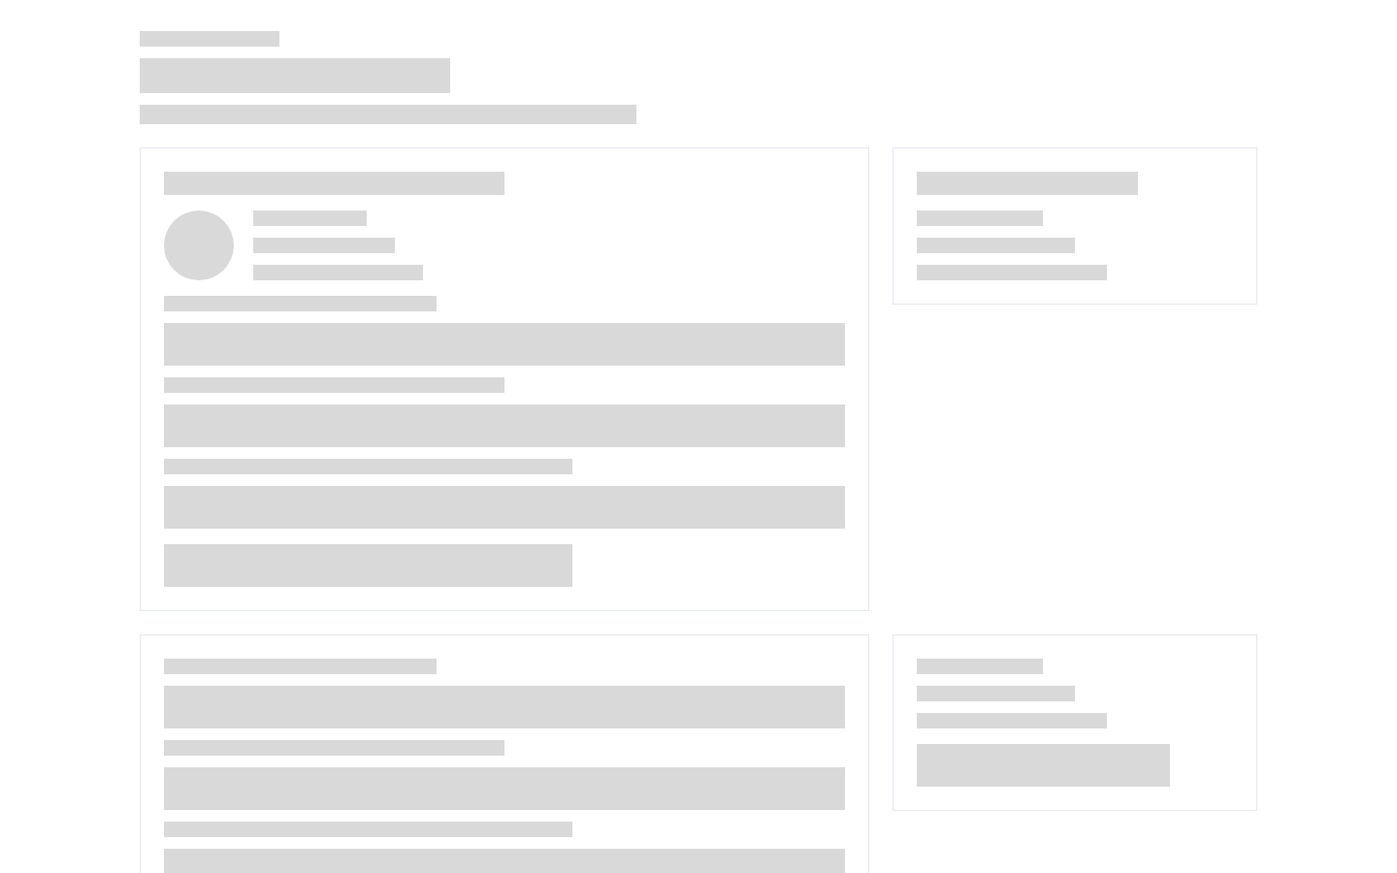
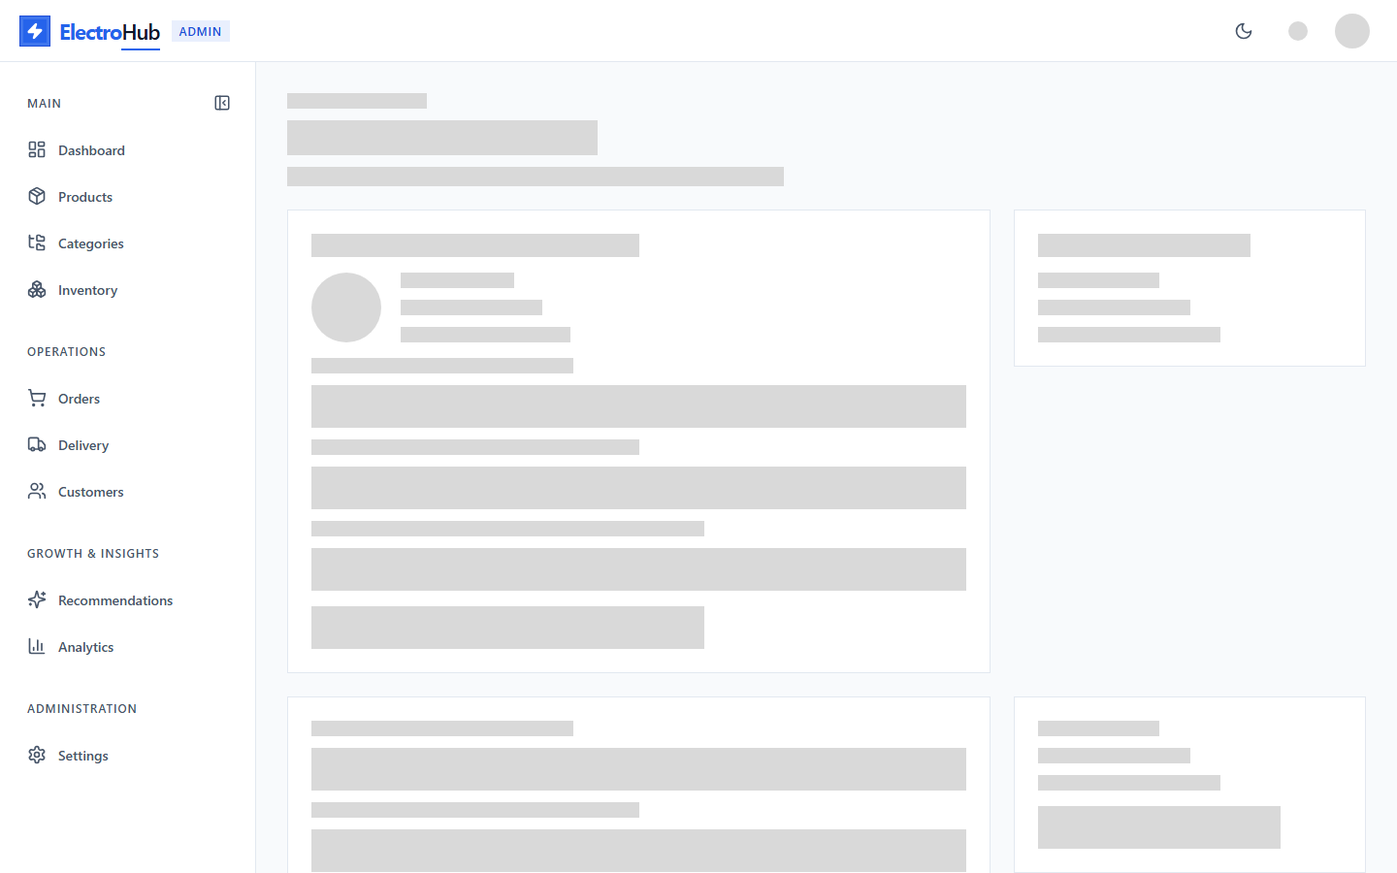
fix(admin): restore administrator account pages inside the console frame
Session restore on /admin/profile, /security and /sessions now paints the page skeleton inside the
real console frame (header, sidebar, mobile drawer) instead of a bare page.

- AdminShellFrame holds the static frame; AdminLayout renders through it (no behaviour change).
- AdminSessionRestoreShell reuses the frame with neutral alerts/account placeholders: no identity,
  photo, alerts request or live-inventory socket before the session is verified.
- Tests: ProtectedRoute unit test for the frame and absent admin data; Playwright (Chromium, WebKit)
  asserts header/sidebar or menu button, no /api/admin request during restore, and a stable header.

diff --git a/apps/frontend/src/layouts/AdminLayout.tsx b/apps/frontend/src/layouts/AdminLayout.tsx
@@ -1,61 +1,22 @@
-import { useEffect, useLayoutEffect, useState } from 'react';
-import { Link, NavLink, Outlet, useLocation, useMatch, useNavigationType } from 'react-router-dom';
+import { useLayoutEffect, useState } from 'react';
+import { Link, Outlet, useLocation, useNavigationType } from 'react-router-dom';
 import clsx from 'clsx';
-import { AlertTriangle, Bell, ExternalLink, LogOut, Menu, PackageX, PanelLeftClose, PanelLeftOpen, Truck, ClipboardList, UserRound, ShieldCheck, MonitorSmartphone } from 'lucide-react';
+import { AlertTriangle, Bell, ExternalLink, LogOut, PackageX, Truck, ClipboardList, UserRound, ShieldCheck, MonitorSmartphone } from 'lucide-react';
 import { useAdminAuth } from '@/features/auth/context/AuthContext';
-import { Drawer, DrawerContent, DrawerDescription, DrawerTitle } from '@/components/ui/Drawer';
 import { DropdownMenu, DropdownMenuContent, DropdownMenuItem, DropdownMenuLabel, DropdownMenuSeparator, DropdownMenuTrigger } from '@/components/ui/DropdownMenu';
 import { Tooltip } from '@/components/ui/Tooltip';
 import { Button } from '@/components/ui/Button';
-import { BrandLogo } from '@/components/ui/BrandLogo';
 import { ThemeToggle } from '@/features/theme';
 import { Avatar } from '@/components/ui/Avatar';
 import { useProfilePhoto } from '@/features/profilePhoto/queries';
-import { ADMIN_NAVIGATION, SIDEBAR_PREFERENCE_KEY, type AdminNavItem } from '@/features/admin/shell/navigation';
 import { useAcknowledgeAdminAlerts, useAdminAlerts } from '@/features/admin/dashboard/api';
 import { useAdminInventoryLiveUpdates } from '@/features/admin/dashboard/useAdminInventoryLiveUpdates';
 import { AdminToastProvider, ConfirmDialog } from '@/features/admin/shared/AdminUi';
 import { formatCount, initials } from '@/features/admin/shared/format';
 import styles from './AdminLayout.module.scss';
+import { AdminShellFrame } from './AdminShellFrame';
 import { usePageTitle } from './usePageTitle';
 import { BRAND_TITLE } from '@/lib/pageTitle';
-
-function readCollapsed() {
-  try { return window.localStorage.getItem(SIDEBAR_PREFERENCE_KEY) === '1'; } catch { return false; }
-}
-
-// The class is resolved here, not through NavLink's className callback: the rail wraps links in a Radix Tooltip trigger, whose Slot
-// merges class names as strings and would turn a callback into an unusable string (the unstyled, cramped rail seen before).
-function NavItem({ item, collapsed, onNavigate }: { item: AdminNavItem; collapsed?: boolean; onNavigate?: () => void }) {
-  const active = Boolean(useMatch({ path: item.to, end: Boolean(item.end) }));
-  const Icon = item.icon;
-  const link = <NavLink to={item.to} end={item.end} onClick={onNavigate} aria-label={collapsed ? item.label : undefined}
-    className={clsx(styles.navLink, active && styles.navLinkActive)}>
-    <Icon className={styles.navIcon} aria-hidden="true" />
-    {!collapsed && <span>{item.label}</span>}
-  </NavLink>;
-  return <li>{collapsed ? <Tooltip content={item.label} side="right" sideOffset={10}>{link}</Tooltip> : link}</li>;
-}
-
-/** `onToggle` (desktop sidebar only) puts the collapse control on the first section's heading row. */
-function Navigation({ collapsed, onNavigate, onToggle }: { collapsed?: boolean; onNavigate?: () => void; onToggle?: () => void }) {
-  return <nav className={styles.nav} aria-label="Admin navigation">
-    {ADMIN_NAVIGATION.map((section, index) => <div key={section.label} className={styles.navSection}>
-      <div className={clsx(styles.navHeadingRow, collapsed && styles.navHeadingRowCollapsed)}>
-        <p className={clsx(styles.navHeading, collapsed && styles.visuallyHidden)}>{section.label}</p>
-        {index === 0 && onToggle && <Tooltip content={collapsed ? 'Expand sidebar' : 'Collapse sidebar'} side="right" sideOffset={10}>
-          <button type="button" className={styles.collapseButton} onClick={onToggle}
-            aria-label={collapsed ? 'Expand sidebar' : 'Collapse sidebar'} aria-pressed={collapsed}>
-            {collapsed ? <PanelLeftOpen aria-hidden="true" /> : <PanelLeftClose aria-hidden="true" />}
-          </button>
-        </Tooltip>}
-      </div>
-      <ul className={styles.navList}>
-        {section.items.map(item => <NavItem key={item.to} item={item} collapsed={collapsed} onNavigate={onNavigate} />)}
-      </ul>
-    </div>)}
-  </nav>;
-}
 
 function AlertsMenu() {
   const alerts = useAdminAlerts();
@@ -170,15 +131,8 @@ function ProfileMenu() {
 export function AdminLayout() {
   usePageTitle('admin-main', BRAND_TITLE, 'Admin');
   const location = useLocation();
-  const [collapsed, setCollapsed] = useState(readCollapsed);
-  const [drawerOpen, setDrawerOpen] = useState(false);
   useAdminInventoryLiveUpdates();
 
-  useEffect(() => {
-    try { window.localStorage.setItem(SIDEBAR_PREFERENCE_KEY, collapsed ? '1' : '0'); } catch { /* preference only */ }
-  }, [collapsed]);
-  // A navigation (including back/forward) always closes the mobile drawer.
-  useEffect(() => { setDrawerOpen(false); }, [location.pathname]);
   // Opening another admin page (a link, a drill-down, the sidebar) starts at its top. Back/forward keep the browser's position, and
   // query-only changes on the same page (filters, pager) are left to the page itself.
   const navigationType = useNavigationType();
@@ -188,43 +142,12 @@ export function AdminLayout() {
   }, [location.pathname]);
 
   return <AdminToastProvider>
-    <div className={clsx(styles.shell, collapsed && styles.shellCollapsed)}>
-      <a href="#admin-main" tabIndex={0} className={styles.skipLink}>Skip to content</a>
-      <header className={styles.header} data-admin-header>
-        <div className={styles.headerStart}>
-          <Tooltip content="Open navigation menu">
-          <button type="button" className={clsx(styles.iconButton, styles.menuButton)} onClick={() => setDrawerOpen(true)}
-            aria-label="Open navigation" aria-expanded={drawerOpen} aria-controls="admin-drawer">
-            <Menu aria-hidden="true" />
-          </button>
-          </Tooltip>
-          <Link to="/admin" className={styles.brand} aria-label="ElectroHub admin — Dashboard">
-            <BrandLogo />
-            <span className={styles.adminPill}>Admin</span>
-          </Link>
-        </div>
-        <div className={styles.headerEnd}>
-          <ThemeToggle className={styles.iconButton} />
-          <AlertsMenu />
-          <ProfileMenu />
-        </div>
-      </header>
-
-      <aside className={styles.sidebar} aria-label="Sidebar">
-        <Navigation collapsed={collapsed} onToggle={() => setCollapsed(value => !value)} />
-      </aside>
-
-      <Drawer open={drawerOpen} onOpenChange={setDrawerOpen}>
-        <DrawerContent id="admin-drawer" className={styles.drawer}>
-          <DrawerTitle className={styles.drawerTitle}>ElectroHub Admin</DrawerTitle>
-          <DrawerDescription className={styles.visuallyHidden}>Admin console navigation</DrawerDescription>
-          <Navigation onNavigate={() => setDrawerOpen(false)} />
-        </DrawerContent>
-      </Drawer>
-
-      <main id="admin-main" className={styles.main} tabIndex={-1}>
-        <Outlet />
-      </main>
-    </div>
+    <AdminShellFrame headerEnd={<>
+      <ThemeToggle className={styles.iconButton} />
+      <AlertsMenu />
+      <ProfileMenu />
+    </>}>
+      <Outlet />
+    </AdminShellFrame>
   </AdminToastProvider>;
 }

diff --git a/apps/frontend/src/layouts/AdminShellFrame.tsx b/apps/frontend/src/layouts/AdminShellFrame.tsx
@@ -1,0 +1,111 @@
+import { useEffect, useState, type ReactNode } from 'react';
+import { Link, NavLink, useLocation, useMatch } from 'react-router-dom';
+import clsx from 'clsx';
+import { Menu, PanelLeftClose, PanelLeftOpen } from 'lucide-react';
+import { Drawer, DrawerContent, DrawerDescription, DrawerTitle } from '@/components/ui/Drawer';
+import { Tooltip } from '@/components/ui/Tooltip';
+import { BrandLogo } from '@/components/ui/BrandLogo';
+import { Skeleton } from '@/components/ui/Skeleton';
+import { ThemeToggle } from '@/features/theme';
+import { ADMIN_NAVIGATION, SIDEBAR_PREFERENCE_KEY, type AdminNavItem } from '@/features/admin/shell/navigation';
+import styles from './AdminLayout.module.scss';
+
+function readCollapsed() {
+  try { return window.localStorage.getItem(SIDEBAR_PREFERENCE_KEY) === '1'; } catch { return false; }
+}
+
+// The class is resolved here, not through NavLink's className callback: the rail wraps links in a Radix Tooltip trigger, whose Slot
+// merges class names as strings and would turn a callback into an unusable string (the unstyled, cramped rail seen before).
+function NavItem({ item, collapsed, onNavigate }: { item: AdminNavItem; collapsed?: boolean; onNavigate?: () => void }) {
+  const active = Boolean(useMatch({ path: item.to, end: Boolean(item.end) }));
+  const Icon = item.icon;
+  const link = <NavLink to={item.to} end={item.end} onClick={onNavigate} aria-label={collapsed ? item.label : undefined}
+    className={clsx(styles.navLink, active && styles.navLinkActive)}>
+    <Icon className={styles.navIcon} aria-hidden="true" />
+    {!collapsed && <span>{item.label}</span>}
+  </NavLink>;
+  return <li>{collapsed ? <Tooltip content={item.label} side="right" sideOffset={10}>{link}</Tooltip> : link}</li>;
+}
+
+/** `onToggle` (desktop sidebar only) puts the collapse control on the first section's heading row. */
+function Navigation({ collapsed, onNavigate, onToggle }: { collapsed?: boolean; onNavigate?: () => void; onToggle?: () => void }) {
+  return <nav className={styles.nav} aria-label="Admin navigation">
+    {ADMIN_NAVIGATION.map((section, index) => <div key={section.label} className={styles.navSection}>
+      <div className={clsx(styles.navHeadingRow, collapsed && styles.navHeadingRowCollapsed)}>
+        <p className={clsx(styles.navHeading, collapsed && styles.visuallyHidden)}>{section.label}</p>
+        {index === 0 && onToggle && <Tooltip content={collapsed ? 'Expand sidebar' : 'Collapse sidebar'} side="right" sideOffset={10}>
+          <button type="button" className={styles.collapseButton} onClick={onToggle}
+            aria-label={collapsed ? 'Expand sidebar' : 'Collapse sidebar'} aria-pressed={collapsed}>
+            {collapsed ? <PanelLeftOpen aria-hidden="true" /> : <PanelLeftClose aria-hidden="true" />}
+          </button>
+        </Tooltip>}
+      </div>
+      <ul className={styles.navList}>
+        {section.items.map(item => <NavItem key={item.to} item={item} collapsed={collapsed} onNavigate={onNavigate} />)}
+      </ul>
+    </div>)}
+  </nav>;
+}
+
+/**
+ * The admin console frame: header, sidebar, mobile drawer and main region. It holds no administrator data (no identity, alerts, live
+ * updates or photo), so the same frame can be painted while the administrator session is still being restored.
+ */
+export function AdminShellFrame({ headerEnd, children }: { headerEnd: ReactNode; children: ReactNode }) {
+  const location = useLocation();
+  const [collapsed, setCollapsed] = useState(readCollapsed);
+  const [drawerOpen, setDrawerOpen] = useState(false);
+
+  useEffect(() => {
+    try { window.localStorage.setItem(SIDEBAR_PREFERENCE_KEY, collapsed ? '1' : '0'); } catch { /* preference only */ }
+  }, [collapsed]);
+  // A navigation (including back/forward) always closes the mobile drawer.
+  useEffect(() => { setDrawerOpen(false); }, [location.pathname]);
+
+  return <div className={clsx(styles.shell, collapsed && styles.shellCollapsed)}>
+    <a href="#admin-main" tabIndex={0} className={styles.skipLink}>Skip to content</a>
+    <header className={styles.header} data-admin-header>
+      <div className={styles.headerStart}>
+        <Tooltip content="Open navigation menu">
+        <button type="button" className={clsx(styles.iconButton, styles.menuButton)} onClick={() => setDrawerOpen(true)}
+          aria-label="Open navigation" aria-expanded={drawerOpen} aria-controls="admin-drawer">
+          <Menu aria-hidden="true" />
+        </button>
+        </Tooltip>
+        <Link to="/admin" className={styles.brand} aria-label="ElectroHub admin — Dashboard">
+          <BrandLogo />
+          <span className={styles.adminPill}>Admin</span>
+        </Link>
+      </div>
+      <div className={styles.headerEnd}>{headerEnd}</div>
+    </header>
+
+    <aside className={styles.sidebar} aria-label="Sidebar">
+      <Navigation collapsed={collapsed} onToggle={() => setCollapsed(value => !value)} />
+    </aside>
+
+    <Drawer open={drawerOpen} onOpenChange={setDrawerOpen}>
+      <DrawerContent id="admin-drawer" className={styles.drawer}>
+        <DrawerTitle className={styles.drawerTitle}>ElectroHub Admin</DrawerTitle>
+        <DrawerDescription className={styles.visuallyHidden}>Admin console navigation</DrawerDescription>
+        <Navigation onNavigate={() => setDrawerOpen(false)} />
+      </DrawerContent>
+    </Drawer>
+
+    <main id="admin-main" className={styles.main} tabIndex={-1}>
+      {children}
+    </main>
+  </div>;
+}
+
+/**
+ * Session restore inside the real console frame. The alerts and account controls are neutral placeholders: nothing that needs the
+ * administrator session (identity, photo, alerts, live inventory updates) is requested or painted until the session is verified.
+ */
+export function AdminSessionRestoreShell({ children }: { children: ReactNode }) {
+  return <AdminShellFrame headerEnd={<>
+    <ThemeToggle className={styles.iconButton} />
+    <span className={styles.iconButton} data-admin-header-placeholder="alerts" aria-hidden="true"><Skeleton variant="circular" width={20} height={20} /></span>
+    <span className={styles.profileButton} data-admin-header-placeholder="account" aria-hidden="true"><Skeleton variant="circular" className={styles.avatar} /></span>
+  </>}>{children}</AdminShellFrame>;
+}

diff --git a/apps/frontend/tests/visual/task06-2-description-skeletons.spec.ts b/apps/frontend/tests/visual/task06-2-description-skeletons.spec.ts
@@ -2,7 +2,7 @@ import { mkdirSync, copyFileSync } from 'node:fs';
 import path from 'node:path';
 import { fileURLToPath } from 'node:url';
 import { expect, test, type Page, type Route, type TestInfo } from '@playwright/test';
-import { CUSTOMER, installDarkModeApi, summaries } from './darkMode.fixtures';
+import { ADMIN, CUSTOMER, installDarkModeApi, summaries } from './darkMode.fixtures';
 
 /**
  * PR #51 / Task 06.2 WP C + WP D — Product Description layout and account loading skeletons.
@@ -145,16 +145,32 @@ test.describe('WP D — account loading skeletons', () => {
       });
     }
     for (const target of ADMIN_PAGES) {
-      test(`${target.name} at ${width}px: a layout skeleton while the administrator session restores`, async ({ page }, info) => {
+      test(`${target.name} at ${width}px: a layout skeleton inside the console frame while the administrator session restores`, async ({ page }, info) => {
         await page.setViewportSize({ width, height: 900 });
         await installDarkModeApi(page, { admin: true });
+        const adminRequests: string[] = [];
+        page.on('request', request => { const { pathname } = new URL(request.url()); if (pathname.startsWith('/api/admin/')) adminRequests.push(pathname); });
         const restore = await hold(page, '/api/auth/admin/refresh');
         await page.goto(target.url);
-        await expect(page.locator(`[data-account-skeleton^="admin-"]`).first()).toBeVisible();
+        const skeleton = page.locator('main#admin-main [data-account-skeleton^="admin-"]');
+        await expect(skeleton).toBeVisible();
+        // The real console frame is already there: header and brand, and the sidebar (desktop) or the navigation button (mobile).
+        await expect(page.locator('[data-admin-header]')).toBeVisible();
+        await expect(page.getByRole('link', { name: 'ElectroHub admin — Dashboard' })).toBeVisible();
+        if (width >= 1024) await expect(page.getByRole('complementary', { name: 'Sidebar' }).getByRole('navigation', { name: 'Admin navigation' })).toBeVisible();
+        else await expect(page.getByRole('button', { name: 'Open navigation' })).toBeVisible();
+        // Nothing that needs the administrator session is requested or painted before it is verified.
+        await expect(page.getByText(ADMIN.email)).toHaveCount(0);
+        await expect(page.getByRole('button', { name: /^Account menu/ })).toHaveCount(0);
+        expect(adminRequests).toEqual([]);
         expect(await overflow(page)).toBeLessThanOrEqual(0);
+        const headerBefore = await page.locator('[data-admin-header]').boundingBox();
         await shot(page, info, `skeleton-${target.name}-${width}`);
         restore.release();
         await expect(page.locator('[data-account-skeleton]')).toHaveCount(0, { timeout: 15_000 });
+        // The frame does not jump when the session resolves.
+        await expect(page.getByRole('button', { name: /^Account menu/ })).toBeVisible();
+        expect(await page.locator('[data-admin-header]').boundingBox()).toEqual(headerBefore);
       });
     }
   }

diff --git a/apps/frontend/src/components/layout/ProtectedRoute/ProtectedRoute.test.tsx b/apps/frontend/src/components/layout/ProtectedRoute/ProtectedRoute.test.tsx
@@ -1,6 +1,6 @@
 /* eslint-disable @typescript-eslint/no-explicit-any */
 import { describe, it, expect, vi, beforeEach } from 'vitest';
-import { render, screen, fireEvent } from '@testing-library/react';
+import { render, screen, fireEvent, within } from '@testing-library/react';
 import { MemoryRouter, Routes, Route, useLocation } from 'react-router-dom';
 import { ProtectedRoute } from './ProtectedRoute';
 import { useAuth } from '@/features/auth/context/AuthContext';
@@ -131,6 +131,24 @@ describe('ProtectedRoute', () => {
       <Route path={path} element={<div>Private content</div>} /></Route></Routes></MemoryRouter>);
     expect(screen.getByRole('status', { name: label })).toHaveAttribute('aria-busy', 'true');
     expect(screen.queryByText('Cached private name')).not.toBeInTheDocument();
+    expect(screen.queryByText('Private content')).not.toBeInTheDocument();
+  });
+
+  it('restores an administrator account page inside the real console frame without administrator data', () => {
+    vi.mocked(useAuth).mockReturnValue({ isInitializing: true, isAuthenticated: true,
+      user: { firstName: 'Cached private name', email: 'cached.admin@example.test', role: 'ADMIN' }, isSessionVerified: false } as ReturnType<typeof useAuth>);
+    render(<MemoryRouter initialEntries={['/admin/profile/security']}><Routes><Route element={<ProtectedRoute requiredRole="ADMIN" />}>
+      <Route path="/admin/profile/security" element={<div>Private content</div>} /></Route></Routes></MemoryRouter>);
+    const main = screen.getByRole('main');
+    expect(within(main).getByRole('status', { name: 'Loading security settings' })).toHaveAttribute('aria-busy', 'true');
+    expect(screen.getByRole('navigation', { name: 'Admin navigation' })).toBeInTheDocument();
+    expect(screen.getByRole('link', { name: 'ElectroHub admin — Dashboard' })).toHaveAttribute('href', '/admin');
+    expect(screen.getByRole('button', { name: 'Open navigation' })).toBeInTheDocument();
+    // Alerts and the account menu are neutral placeholders until the session is verified: no identity, no alert counts.
+    expect(screen.queryByRole('button', { name: /^Account menu/ })).not.toBeInTheDocument();
+    expect(screen.queryByRole('button', { name: /^Alerts/ })).not.toBeInTheDocument();
+    expect(screen.queryByText('Cached private name')).not.toBeInTheDocument();
+    expect(screen.queryByText('cached.admin@example.test')).not.toBeInTheDocument();
     expect(screen.queryByText('Private content')).not.toBeInTheDocument();
   });
 

diff --git a/apps/frontend/src/components/layout/ProtectedRoute/ProtectedRoute.tsx b/apps/frontend/src/components/layout/ProtectedRoute/ProtectedRoute.tsx
@@ -5,6 +5,7 @@ import { ErrorState } from '@/components/ui/ErrorState';
 import { Button } from '@/components/ui/Button';
 import skeletonStyles from '@/features/account/AccountSkeleton.module.scss';
 import { ElectroHubLoader } from '@/components/ui/ElectroHubLoader/ElectroHubLoader';
+import { AdminSessionRestoreShell } from '@/layouts/AdminShellFrame';
 
 interface ProtectedRouteProps {
   requiredRole?: string;
@@ -38,7 +39,8 @@ function RouteGate({ session, requiredRole, redirectTo = '/', requireVerifiedSes
     }
     if (location.pathname.startsWith('/admin/profile')) {
       const variant = location.pathname.endsWith('/security') ? 'security' : location.pathname.endsWith('/sessions') ? 'sessions' : 'profile';
-      return <div className={skeletonStyles.gate}><AdminAccountSkeleton variant={variant} /></div>;
+      // The real console frame (header, sidebar, drawer) with the page skeleton where the page will render; no administrator data yet.
+      return <AdminSessionRestoreShell><AdminAccountSkeleton variant={variant} /></AdminSessionRestoreShell>;
     }
     return <ElectroHubLoader page />;
   }

diff --git a/docs/tasks/Phase-06/TASK_06.2_CHECKOUT_REMOVAL_DESCRIPTION_SKELETONS_EVIDENCE.md b/docs/tasks/Phase-06/TASK_06.2_CHECKOUT_REMOVAL_DESCRIPTION_SKELETONS_EVIDENCE.md
@@ -111,7 +111,7 @@ The short / XSS case and dark mode are asserted in the same spec. Their screensh
 | `/orders/:ref` | `OrderDetailsSkeleton` (extracted, reused as the route fallback) |
 | `/orders/:ref/tracking` | `TrackingSkeleton` (extracted, reused as the route fallback) |
 | `/wishlist` | Existing wishlist skeleton |
-| `/admin/profile`, `/admin/profile/security`, `/admin/profile/sessions` | `AdminAccountSkeleton variant=profile|security|sessions` |
+| `/admin/profile`, `/admin/profile/security`, `/admin/profile/sessions` | `AdminAccountSkeleton variant=profile|security|sessions`, inside the real console frame (`AdminSessionRestoreShell`) |
 | Notification preferences (account) | Inline skeleton with a screen-reader "Checking notification preferences…" |
 
 ## 12. Skeleton component architecture
@@ -119,6 +119,10 @@ The short / XSS case and dark mode are asserted in the same spec. Their screensh
 - `features/account/AccountSkeleton.tsx` composes the shared `Skeleton` primitive. It adds no new primitive and no new shimmer.
 - Each skeleton root has `role="status"`, `aria-busy="true"`, an accessible label and `data-account-skeleton`.
 - `ProtectedRoute` shows the route-specific fallback (passed through `route()` / `adminRoute()`) while the session restores.
+- Administrator account pages restore inside the console frame. `layouts/AdminShellFrame.tsx` holds the header, sidebar, mobile drawer
+  and main region, and `AdminLayout` renders through it. During restore, `AdminSessionRestoreShell` uses the same frame with neutral
+  placeholders for the alerts and account controls. No identity, photo, alerts request or live-inventory socket starts before the session is
+  verified, and the header does not move when the real controls replace the placeholders (Playwright compares its bounding box).
 - If the session check fails, `ProtectedRoute` shows `ErrorState` "We could not verify your session." with **Retry**, never an endless skeleton.
 - The shared `Skeleton` already disables shimmer under `prefers-reduced-motion`.
 
@@ -149,6 +153,7 @@ The short / XSS case and dark mode are asserted in the same spec. Their screensh
   - `features/account/{AccountSkeleton,RecentOrders}.*`
   - `OrderDetailsSkeleton.tsx`, `TrackingSkeleton.tsx`
   - `ProtectedRoute.{tsx,test.tsx}`, `routes/index.tsx`
+  - `layouts/AdminShellFrame.tsx` (new), `layouts/AdminLayout.tsx` (renders through the frame)
   - `AccountPage`, `ProfilePage`, `AdminProfilePage`, `AdminSecurityPage` and their tests
   - `DeliveryNotificationPreferences.*`
 - **Browser specs and configs:**
@@ -183,6 +188,13 @@ checkout's dependencies, same lockfile):
 Before the rebase, the final evidence run had three browser failures. They happened while the shared dependency tree was being removed
 (§20) and did not recur on the re-run above.
 
+**Admin console frame follow-up** (after `5a3f505b`):
+- Frontend typecheck and lint: 0 errors. Build: passes.
+- Frontend unit tests: 1608 / 1610. Both failures are `AdminProductFormPage` load-timing tests; that page does not use the changed
+  modules, and it passes 15 / 15 on each of two runs alone.
+- `ProtectedRoute`, layout and route unit tests: 41 / 41.
+- Description/skeleton spec: Chromium 28 / 28. The admin restore tests also pass 6 / 6 in WebKit.
+
 ## 17. Browser / viewport results
 
 | Area | Widths | Chromium | WebKit | Firefox |
@@ -193,7 +205,7 @@ Before the rebase, the final evidence run had three browser failures. They happe
 | Account skeletons | 390 1440 | PASS | PASS | NOT VERIFIED (launch failure) |
 
 Screenshots were inspected by eye: processing at 390 and 320, Cancel & Remove dialog at 390, long description at 1920 and 320, customer
-account / orders / admin profile skeletons at 1440, admin security at 390.
+account / orders skeletons at 1440, admin security at 1440 and admin profile at 390 (WebKit), both inside the console frame.
 
 ## 18. Accessibility findings
 
@@ -235,7 +247,6 @@ The documentation-only commit that records this result gets its own CI run on PR
 - The Postgres removal scenarios (U, W) ran in CI only (passed on `e64af2af`), not locally.
 - No live or test-mode Stripe cancellation was exercised.
 - Firefox was not run locally (launch failure). CI's Firefox release and branding E2E jobs passed, but they do not run the new local suites.
-- During session restore, the admin skeleton renders without the admin shell (sidebar/header).
 - At 320px, the sticky header overlaps the top of element screenshots. This affects screenshots only, not the layout.
 - The checkout-processing and description/skeleton Playwright configs are local suites. CI does not run them.
 
